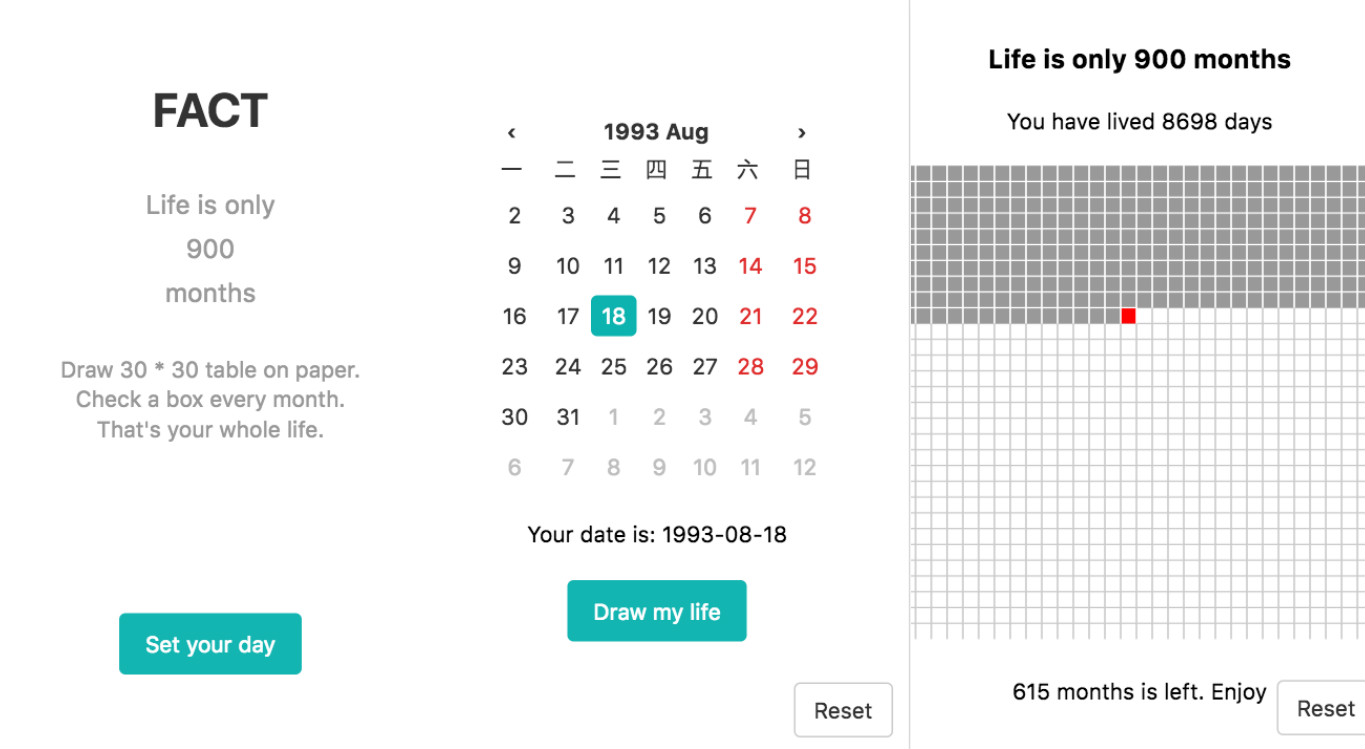
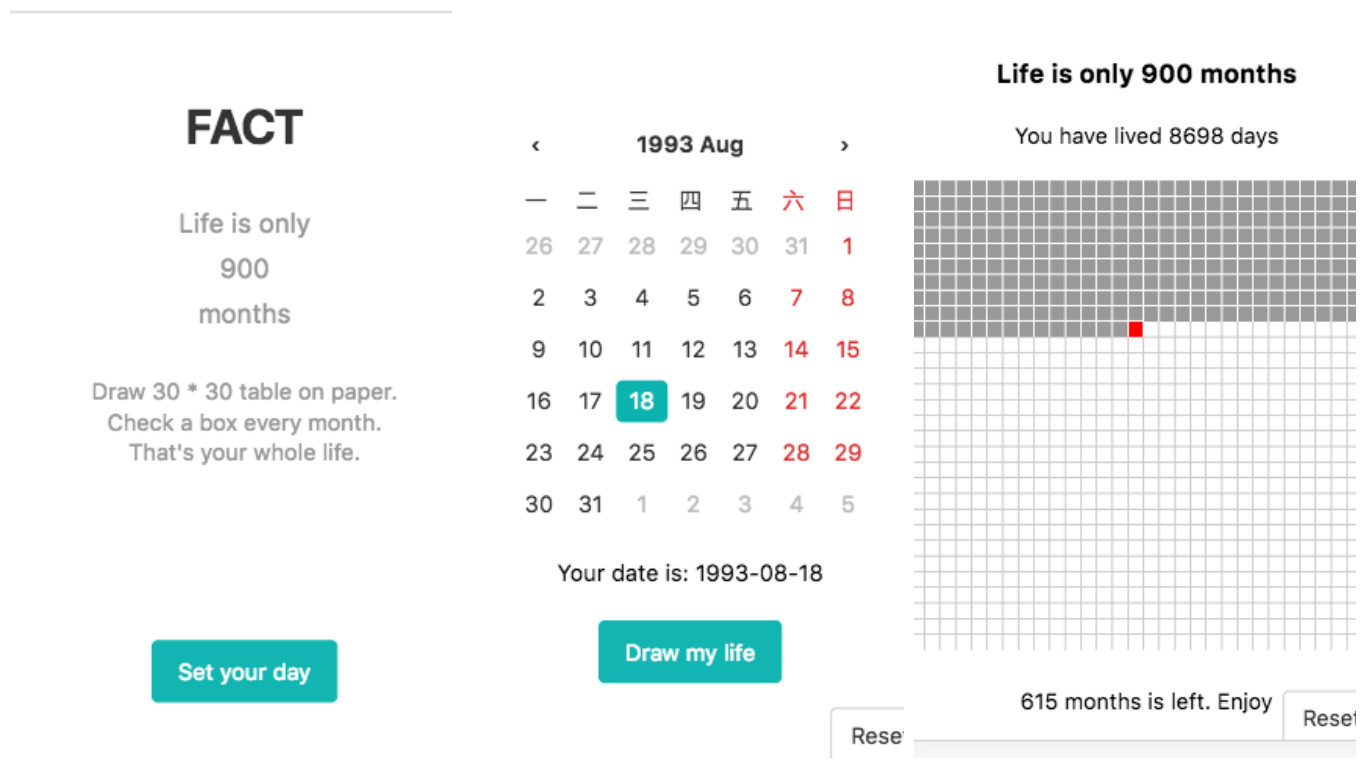
bugs

diff --git a/src/ui/datePicker/index.vue b/src/ui/datePicker/index.vue
@@ -256,7 +256,7 @@ export default {
                 case 'date':
                     title = [value.year, value.month].join(' ')
 
-                    const firstDayOfMonth = this.getFirstDayOfMonth()
+                    const firstDayOfMonth = this.getFirstDayOfMonth() || 7
 
                     const totalDaysOfMonth = this.getToalDaysOfMonth()
 
@@ -365,10 +365,6 @@ export default {
         line-height: 50px;
         border-radius: 4px;
 
-        &.weekend {
-            color: #e02d2d;
-        }
-
         &.gray {
             color: #bfbfbf;
         }
@@ -393,11 +389,22 @@ export default {
     &.u-datepicker-date {
         td {
             padding: 0;
+
+            &.weekend {
+                color: #e02d2d;
+            }
+        }
+        th {
+            padding: 15px 0;
         }
         span {
             width: 100%;
             line-height: 26px;
             margin: 6px 2px 0;
+
+            &.weekend {
+                color: #e02d2d;
+            }
         }
     }
 }
